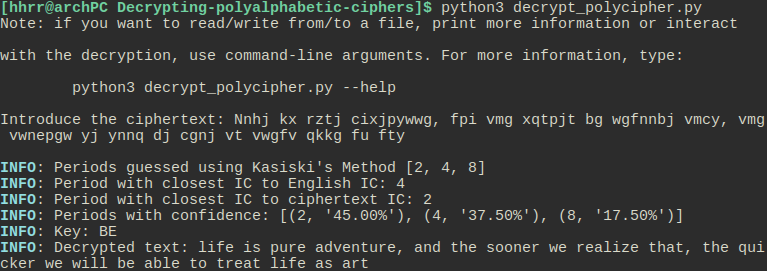
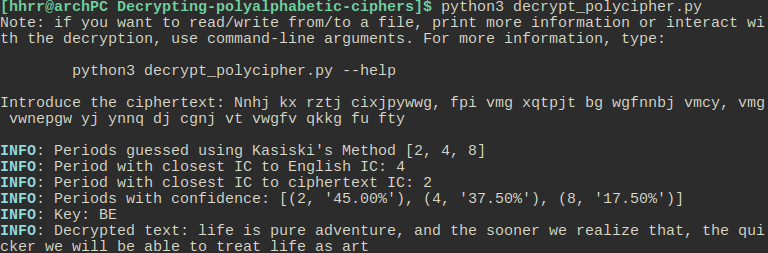
added screenshot

Changed region(s): [[0.0, 0.5534, 1.0, 0.996], [0.0, 0.0, 1.0, 0.3597], [0.0, 0.3874, 1.0, 0.5257]]

diff --git a/decrypt_polycipher.py b/decrypt_polycipher.py
@@ -243,9 +243,9 @@ if __name__ == '__main__':
     args = parser.parse_args()
 
     if not args.manual and not args.verbosity and not args.input_file and not args.output_file:
-        banner = "Note: if you want to read/write from/to a file, print more information or interact  \
-        \nwith the decryption, use command-line arguments. For more information, type: \
-        \n\n\tpython3 " + sys.argv[0] + " --help\n"
+        banner = "Note: if you want to read/write from/to a file, print more information or interact "   \
+            + "with the decryption, use command-line arguments. For more information, type:"    \
+            + "\n\n\tpython3 " + sys.argv[0] + " --help\n"
         print(banner)
 
     if args.verbosity:

diff --git a/README.md b/README.md
@@ -1,6 +1,6 @@
 # Decrypting-polyalphabetic-ciphers
 
-[screenshot](https://raw.githubusercontent.com/ranea/Decrypting-polyalphabetic-ciphers/master/screenshot.png)
+![screenshot](https://raw.githubusercontent.com/ranea/Decrypting-polyalphabetic-ciphers/master/screenshot.png)
 
 Decrypting polyalphabetic ciphers using Kasiski's Method and Index of Coincidence
 
